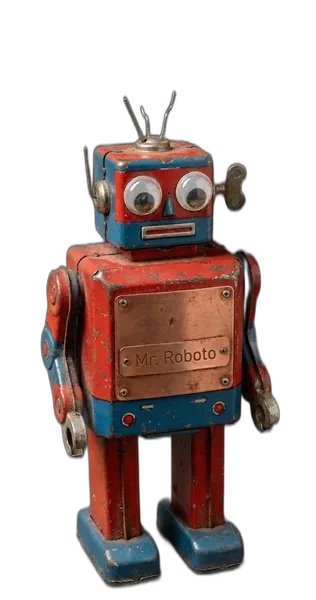
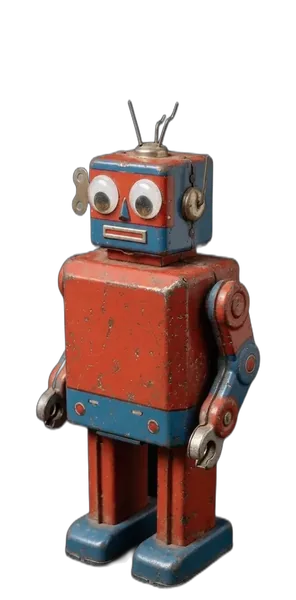
Add Sigmund board mascot and refresh Mr. Roboto artwork
- New mascot 'sigmund' (frontend MASCOTS + backend BoardMascot), prepped
  with the tools/ mascot flow (background removal, bottom-gap leveling,
  WebP, -sm variant).
- Replace the Mr. Roboto images with the updated artwork.
- level-bottom-gap.py: default reference is pineapple.webp; the .png it
  pointed at no longer exists.
- NOTICE.md: list sigmund*.webp under the CC-BY-4.0 artwork.

diff --git a/tasker-frontend/src/mascots.ts b/tasker-frontend/src/mascots.ts
@@ -4,6 +4,8 @@ import mrRobotoUrl from './assets/mr_roboto.webp';
 import mrRobotoSmUrl from './assets/mr_roboto-sm.webp';
 import stationeryUrl from './assets/stationery_holder.webp';
 import stationerySmUrl from './assets/stationery_holder-sm.webp';
+import sigmundUrl from './assets/sigmund.webp';
+import sigmundSmUrl from './assets/sigmund-sm.webp';
 
 /** A board mascot: the little character shown in the corner of the board. */
 export interface Mascot {
@@ -32,13 +34,18 @@ export const MASCOTS: Mascot[] = [
   },
   {
     id: 'mr_roboto', label: 'Mr. Roboto', url: mrRobotoUrl,
-    srcSet: `${mrRobotoSmUrl} 316w, ${mrRobotoUrl} 479w`,
-    sizes: '(max-width: 600px) 116px, (max-width: 820px) 169px, 221px',
+    srcSet: `${mrRobotoSmUrl} 296w, ${mrRobotoUrl} 449w`,
+    sizes: '(max-width: 600px) 109px, (max-width: 820px) 158px, 207px',
   },
   {
     id: 'stationery', label: 'Pencil Cup', url: stationeryUrl,
     srcSet: `${stationerySmUrl} 318w, ${stationeryUrl} 704w`,
     sizes: '(max-width: 600px) 117px, (max-width: 820px) 170px, 223px',
+  },
+  {
+    id: 'sigmund', label: 'Sigmund', url: sigmundUrl,
+    srcSet: `${sigmundSmUrl} 407w, ${sigmundUrl} 617w`,
+    sizes: '(max-width: 600px) 149px, (max-width: 820px) 217px, 285px',
   },
 ];
 

diff --git a/src/main/kotlin/dev/itayp/tasker/model/BoardMascot.kt b/src/main/kotlin/dev/itayp/tasker/model/BoardMascot.kt
@@ -8,7 +8,8 @@ package dev.itayp.tasker.model
 enum class BoardMascot(val id: String) {
     PINEAPPLE("pineapple"),
     MR_ROBOTO("mr_roboto"),
-    STATIONERY("stationery");
+    STATIONERY("stationery"),
+    SIGMUND("sigmund");
 
     companion object {
         val DEFAULT = PINEAPPLE

diff --git a/tools/level-bottom-gap.py b/tools/level-bottom-gap.py
@@ -16,7 +16,7 @@ the desired amount is padded back. Top/left/right padding is left untouched.
 Usage:
     python3 tools/level-bottom-gap.py mr_roboto.png stationery_holder.png
     python3 tools/level-bottom-gap.py --mode pixels --gap 13 mr_roboto.png
-    python3 tools/level-bottom-gap.py --reference pineapple.png --dry-run *.png
+    python3 tools/level-bottom-gap.py --reference pineapple.webp --dry-run *.png
 
 Paths are resolved relative to the assets dir unless absolute / already valid.
 """
@@ -90,7 +90,7 @@ def level(path: str, target_ratio: float | None, target_px: int | None, dry_run:
 def main() -> None:
     p = argparse.ArgumentParser(description=__doc__, formatter_class=argparse.RawDescriptionHelpFormatter)
     p.add_argument("targets", nargs="+", help="PNG(s) to adjust (relative to the assets dir)")
-    p.add_argument("--reference", default="pineapple.png", help="image whose gap is matched (default: pineapple.png)")
+    p.add_argument("--reference", default="pineapple.webp", help="image whose gap is matched (default: pineapple.webp)")
     p.add_argument("--mode", choices=["ratio", "pixels"], default="ratio", help="match the reference gap as a height ratio (default) or absolute pixels")
     p.add_argument("--gap", type=float, help="override the target gap (ratio 0-1 in ratio mode, or pixels in pixels mode)")
     p.add_argument("--dry-run", action="store_true", help="report changes without writing")

diff --git a/NOTICE.md b/NOTICE.md
@@ -15,7 +15,7 @@ The mascots are licensed under
 (`CC-BY-4.0`); the full text is in [`LICENSES/CC-BY-4.0.txt`](LICENSES/CC-BY-4.0.txt). This covers:
 
 - the board mascots and the balloon faces: `tasker-frontend/src/assets/balloon/`;
-  `mr_roboto*.webp`, `pineapple*.webp` and `stationery_holder*.webp` in `tasker-frontend/src/assets/`;
+  `mr_roboto*.webp`, `pineapple*.webp`, `sigmund*.webp` and `stationery_holder*.webp` in `tasker-frontend/src/assets/`;
   and the source image `tools/Balloon.png`.
 
 You may share and adapt them, including commercially, as long as you give credit. A suitable credit
